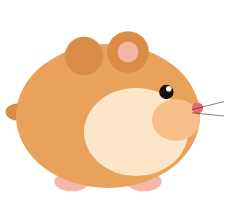
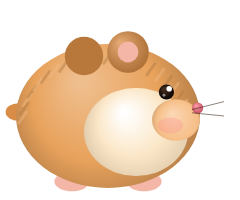
Realistic objects: shaded hamsters with fur, outline-free rocks/spikes/mounds with contact shadows, sunflower seeds, bald eagle and leathery bat; hex energy-bubble shield; refreshed character portraits

diff --git a/index.html b/index.html
@@ -1118,24 +1118,36 @@
     c.fillStyle = '#f4b6a6';
     if (o.air) { E(-r * 0.3, -r * 0.2, r * 0.2, r * 0.12); E(r * 0.35, -r * 0.2, r * 0.2, r * 0.12); }
     else { E(-r * 0.45 + (o.run || 0) * r * 0.23, -r * 0.08, r * 0.22, r * 0.12); E(r * 0.45 - (o.run || 0) * r * 0.23, -r * 0.08, r * 0.22, r * 0.12); }
-    c.fillStyle = sk.body; E(0, -r * 0.9, r * 1.15, r * 0.9);
+    const RG = (x0, y0, r1, stops) => { const g = c.createRadialGradient(x0, y0, r1 * 0.05, x0 + r1 * 0.25, y0 + r1 * 0.3, r1); stops.forEach(([k, col]) => g.addColorStop(k, col)); return g; };
+    c.fillStyle = RG(-r * 0.35, -r * 1.35, r * 1.5, [[0, mix(sk.body, '#ffffff', 0.3)], [0.5, sk.body], [1, mix(sk.body, '#000000', 0.35)]]);
+    E(0, -r * 0.9, r * 1.15, r * 0.9);
+    // fur: short strands along the back, lighter on top
+    c.save(); c.beginPath(); c.ellipse(0, -r * 0.9, r * 1.15, r * 0.9, 0, 0, Math.PI * 2); c.clip();
+    c.lineCap = 'round'; c.lineWidth = Math.max(0.8, r * 0.035);
+    for (let i = 0; i < 22; i++) { const a = Math.PI * (1.02 + i * 0.045), px = Math.cos(a) * r * 1.02, py = -r * 0.9 + Math.sin(a) * r * 0.8;
+      c.strokeStyle = i % 2 ? mix(sk.body, '#000000', 0.25) : mix(sk.body, '#ffffff', 0.25); c.globalAlpha = 0.45;
+      c.beginPath(); c.moveTo(px, py); c.lineTo(px - r * 0.1, py + r * 0.14); c.stroke(); }
+    c.globalAlpha = 1; c.restore();
     if (ch.extra === 'panda') { c.fillStyle = '#2b2522'; E(-r * 0.45, -r * 1.0, r * 0.55, r * 0.5); }
     if (ch.extra === 'dorsal') { c.strokeStyle = '#4c566a'; c.lineWidth = r * 0.14; c.lineCap = 'round'; c.beginPath(); c.ellipse(0, -r * 0.9, r * 0.98, r * 0.74, 0, Math.PI * 1.08, Math.PI * 1.62); c.stroke(); }
-    c.fillStyle = sk.belly; E(r * 0.35, -r * 0.7, r * 0.65, r * 0.55);
-    c.fillStyle = sk.ear; C(r * 0.25, -r * 1.7, r * 0.26); C(-r * 0.3, -r * 1.65, r * 0.24);
+    c.fillStyle = RG(r * 0.2, -r * 0.95, r * 0.75, [[0, '#ffffff'], [0.55, sk.belly], [1, mix(sk.belly, '#7a5a40', 0.25)]]); E(r * 0.35, -r * 0.7, r * 0.65, r * 0.55);
+    c.fillStyle = mix(sk.ear, '#000000', 0.15); C(-r * 0.3, -r * 1.65, r * 0.24);
+    c.fillStyle = RG(r * 0.15, -r * 1.82, r * 0.3, [[0, mix(sk.ear, '#ffffff', 0.25)], [1, mix(sk.ear, '#000000', 0.2)]]); C(r * 0.25, -r * 1.7, r * 0.26);
     c.fillStyle = sk.inner || '#f4b6a6'; C(r * 0.25, -r * 1.7, r * 0.13);
     if (ch.extra === 'blaze') { c.fillStyle = sk.belly; E(r * 0.5, -r * 1.48, r * 0.12, r * 0.22); }
     if (ch.extra === 'tuft') { c.strokeStyle = sk.ear; c.lineWidth = Math.max(1, r * 0.07); c.lineCap = 'round'; c.beginPath();
       for (const k of [-1, 0, 1]) { c.moveTo(r * (0.0 + k * 0.08), -r * 1.72); c.quadraticCurveTo(r * (0.02 + k * 0.12), -r * 2.0, r * (0.12 + k * 0.14), -r * 2.02); } c.stroke(); }
-    const ck = o.cheek || 1; c.fillStyle = sk.cheek; E(r * 0.85, -r * 0.85, r * 0.3 * ck, r * 0.26 * ck);
+    const ck = o.cheek || 1;
+    c.fillStyle = RG(r * 0.8, -r * 0.92, r * 0.34 * ck, [[0, mix(sk.cheek, '#ffffff', 0.35)], [0.7, sk.cheek], [1, mix(sk.cheek, '#000000', 0.12)]]); E(r * 0.85, -r * 0.85, r * 0.3 * ck, r * 0.26 * ck);
+    c.fillStyle = 'rgba(255,120,140,0.22)'; E(r * 0.78, -r * 0.78, r * 0.16, r * 0.1); // blush
     if (ch.extra === 'led') { c.fillStyle = '#eafff8';
       for (let i = 0; i < 3; i++) for (let j = 0; j < 3; j++) if ((i + j) % 2 === 0) C(-r * 0.75 + i * r * 0.18, -r * 1.25 + j * r * 0.18, r * 0.05); }
     if (ch.extra === 'panda') { c.fillStyle = '#2b2522'; E(r * 0.72, -r * 1.19, r * 0.21, r * 0.17); }
     c.fillStyle = '#1a0f08';
     if (o.eye === 'x') c.fillRect(r * 0.6, -r * 1.22, r * 0.25, r * 0.06);
     else if (o.eye === 'blink') c.fillRect(r * 0.62, -r * 1.2, r * 0.22, r * 0.05);
-    else { if (ch.extra === 'panda') { c.fillStyle = '#fff'; C(r * 0.72, -r * 1.2, r * 0.12); c.fillStyle = '#1a0f08'; } C(r * 0.73, -r * 1.2, r * 0.09); c.fillStyle = '#fff'; C(r * 0.76, -r * 1.24, r * 0.035); }
-    c.fillStyle = '#e46b7a'; C(r * 1.12, -r * 1.0, r * 0.07);
+    else { if (ch.extra === 'panda') { c.fillStyle = '#fff'; C(r * 0.72, -r * 1.2, r * 0.12); c.fillStyle = '#1a0f08'; } c.fillStyle = RG(r * 0.7, -r * 1.24, r * 0.1, [[0, '#4a3020'], [1, '#0a0503']]); C(r * 0.73, -r * 1.2, r * 0.095); c.fillStyle = '#fff'; C(r * 0.765, -r * 1.24, r * 0.035); c.fillStyle = 'rgba(255,255,255,0.5)'; C(r * 0.7, -r * 1.16, r * 0.018); }
+    c.fillStyle = RG(r * 1.1, -r * 1.03, r * 0.08, [[0, '#ff9aa8'], [1, '#c4505f']]); C(r * 1.12, -r * 1.0, r * 0.07);
     c.strokeStyle = '#2a1a0c88'; c.lineWidth = 1; c.beginPath();
     c.moveTo(r * 1.05, -r * 0.98); c.lineTo(r * 1.45, -r * 1.08); c.moveTo(r * 1.05, -r * 0.94); c.lineTo(r * 1.45, -r * 0.9); c.stroke();
   }
@@ -1154,96 +1166,171 @@
       eye: state === 'over' ? 'x' : ham.blink < 0 ? 'blink' : '' });
     ctx.restore();
 
-    if (shield) {
-      ctx.strokeStyle = `rgba(95,211,181,${0.55 + Math.sin(t * 8) * 0.25})`; ctx.lineWidth = 3;
-      ctx.beginPath(); ctx.arc(x, y - r * 0.95, r * 1.55, 0, Math.PI * 2); ctx.stroke();
+    if (shield) drawShield(x, y - r * 0.95, r * 1.6);
+  }
+  // shield: a Squeekchain-teal energy bubble with a turning hex lattice, a pulsing rim and orbiting sparks
+  let hexTile = null;
+  function hexPattern() {
+    if (hexTile) return hexTile;
+    const s = 9, w = s * 3, h = Math.round(s * Math.sqrt(3)); hexTile = document.createElement('canvas'); hexTile.width = w * 2; hexTile.height = h * 2;
+    const x = hexTile.getContext('2d'); x.strokeStyle = 'rgba(190,255,236,0.9)'; x.lineWidth = 1;
+    const hex = (cx, cy) => { x.beginPath(); for (let i = 0; i <= 6; i++) { const a = Math.PI / 3 * i; i ? x.lineTo(cx + s * Math.cos(a), cy + s * Math.sin(a)) : x.moveTo(cx + s, cy); } x.stroke(); };
+    for (let i = -1; i <= 2; i++) for (let j = -1; j <= 2; j++) { hex(i * w, j * h); hex(i * w + w / 2, j * h + h / 2); }
+    return hexTile;
+  }
+  function drawShield(cx, cy, R) {
+    const pulse = 0.5 + 0.5 * Math.sin(t * 5);
+    ctx.save();
+    const body = ctx.createRadialGradient(cx - R * 0.3, cy - R * 0.35, R * 0.1, cx, cy, R);
+    body.addColorStop(0, 'rgba(160,255,230,0.05)'); body.addColorStop(0.7, 'rgba(95,211,181,0.12)'); body.addColorStop(1, `rgba(95,211,181,${0.32 + 0.12 * pulse})`);
+    ctx.fillStyle = body; circle(cx, cy, R);
+    ctx.beginPath(); ctx.arc(cx, cy, R, 0, Math.PI * 2); ctx.clip();
+    ctx.globalAlpha = 0.16 + 0.08 * pulse; ctx.translate(cx, cy); ctx.rotate(t * 0.35);
+    ctx.fillStyle = ctx.createPattern(hexPattern(), 'repeat'); ctx.fillRect(-R, -R, R * 2, R * 2);
+    ctx.restore();
+    ctx.save();
+    ctx.lineWidth = 2.2; ctx.strokeStyle = `rgba(150,255,225,${0.55 + 0.35 * pulse})`; ctx.shadowColor = '#5fd3b5'; ctx.shadowBlur = 10;
+    ctx.beginPath(); ctx.arc(cx, cy, R, 0, Math.PI * 2); ctx.stroke(); ctx.shadowBlur = 0;
+    ctx.strokeStyle = 'rgba(255,255,255,0.55)'; ctx.lineWidth = 2; ctx.beginPath(); ctx.arc(cx, cy, R * 0.86, Math.PI * 1.1, Math.PI * 1.45); ctx.stroke(); // glint
+    for (let i = 0; i < 3; i++) { // orbiting sparks
+      const a = t * 2.4 + i * Math.PI * 2 / 3, sx = cx + Math.cos(a) * R, sy = cy + Math.sin(a) * R * 0.95;
+      const g = ctx.createRadialGradient(sx, sy, 0, sx, sy, 6); g.addColorStop(0, 'rgba(255,255,255,0.95)'); g.addColorStop(1, 'rgba(95,211,181,0)');
+      ctx.fillStyle = g; circle(sx, sy, 6);
     }
+    ctx.restore();
   }
 
-  // hazards use colours that never appear in the burrow (light grey stone, clay)
-  // and a dark outline so they pop against the brown ground and hills
+  // ---------- hazards, flyers and pickups: shaded, outline-free, lit from the upper left ----------
   const OUT = '#120a05';
+  const lit = (c, k) => mix(c, '#ffffff', k), dim = (c, k) => mix(c, '#000000', k);
+  function contactShadow(cx, w) { // soft shadow where an object meets the ground
+    const g = ctx.createRadialGradient(cx, GROUND, 0, cx, GROUND, w);
+    g.addColorStop(0, 'rgba(0,0,0,0.38)'); g.addColorStop(1, 'rgba(0,0,0,0)');
+    ctx.fillStyle = g; ctx.save(); ctx.translate(cx, GROUND); ctx.scale(1, 0.22); ctx.translate(-cx, -GROUND); circle(cx, GROUND, w); ctx.restore();
+  }
+  function seeded(seed) { let a = Math.floor(seed * 1e9) | 0; return () => { a = a + 0x6D2B79F5 | 0; let q = Math.imul(a ^ a >>> 15, 1 | a); q = q + Math.imul(q ^ q >>> 7, 61 | q) ^ q; return ((q ^ q >>> 14) >>> 0) / 4294967296; }; }
+  function drawRock(cx, cy, rx, ry, seed, base) {
+    const R = seeded(seed);
+    // lumpy outline: an ellipse with a little noise on the radius
+    ctx.beginPath();
+    const n = 14, ph = R() * 6;
+    for (let i = 0; i <= n; i++) {
+      const a = Math.PI + (i / n) * Math.PI, k = 1 + 0.07 * Math.sin(a * 3 + ph) + 0.04 * Math.sin(a * 7 + ph * 2);
+      const x = cx + Math.cos(a) * rx * k, y = cy + Math.sin(a) * ry * k;
+      i ? ctx.lineTo(x, y) : ctx.moveTo(x, y);
+    }
+    ctx.quadraticCurveTo(cx + rx * 0.6, cy + ry * 0.45, cx, cy + ry * 0.5); ctx.quadraticCurveTo(cx - rx * 0.6, cy + ry * 0.45, cx - rx, cy);
+    const g = ctx.createRadialGradient(cx - rx * 0.35, cy - ry * 0.55, rx * 0.05, cx, cy, Math.max(rx, ry) * 1.15);
+    g.addColorStop(0, lit(base, 0.45)); g.addColorStop(0.45, base); g.addColorStop(1, dim(base, 0.55));
+    ctx.fillStyle = g; ctx.fill();
+    ctx.strokeStyle = dim(base, 0.6); ctx.globalAlpha = 0.55; ctx.lineWidth = 1.2; ctx.stroke(); ctx.globalAlpha = 1;
+    ctx.save(); ctx.clip();
+    for (let i = 0; i < 7; i++) { ctx.fillStyle = R() < 0.5 ? 'rgba(0,0,0,0.18)' : 'rgba(255,255,255,0.2)'; circle(cx + (R() - 0.5) * rx * 1.6, cy + (R() - 0.7) * ry * 1.2, (0.6 + R() * 1.4) * S); }
+    ctx.strokeStyle = 'rgba(0,0,0,0.28)'; ctx.lineWidth = 1; ctx.beginPath(); // a hairline crack
+    let x = cx + (R() - 0.5) * rx, y = cy - ry * 0.9; ctx.moveTo(x, y);
+    for (let i = 0; i < 4; i++) { x += (R() - 0.5) * rx * 0.4; y += ry * 0.28; ctx.lineTo(x, y); }
+    ctx.stroke(); ctx.restore();
+    const sp = ctx.createRadialGradient(cx - rx * 0.4, cy - ry * 0.6, 0, cx - rx * 0.4, cy - ry * 0.6, rx * 0.35);
+    sp.addColorStop(0, 'rgba(255,255,255,0.35)'); sp.addColorStop(1, 'rgba(255,255,255,0)'); ctx.fillStyle = sp; circle(cx - rx * 0.4, cy - ry * 0.6, rx * 0.35);
+  }
   function drawFlyer(o) {
     const cx = o.x + o.w / 2, cy = o.y + (o.fall ? 0 : Math.sin(t * 3 + o.phase) * 5 * S), z = S;
-    const flap = Math.sin(t * (o.sp === 'eagle' ? 9 : 16) + o.phase);
+    const flap = Math.sin(t * (o.sp === 'eagle' ? 8 : 15) + o.phase);
     if (o.x > W - 20 && !o.fall) { // incoming warning at the screen edge
-      ctx.fillStyle = '#ff5a3c'; ctx.globalAlpha = 0.6 + 0.4 * Math.sin(t * 14);
-      circle(W - 22 * z, cy, 14 * z);
+      const g = ctx.createRadialGradient(W - 22 * z, cy, 0, W - 22 * z, cy, 18 * z);
+      g.addColorStop(0, '#ff7a55'); g.addColorStop(1, '#c2301b');
+      ctx.globalAlpha = 0.65 + 0.35 * Math.sin(t * 14); ctx.fillStyle = g; circle(W - 22 * z, cy, 15 * z);
       ctx.globalAlpha = 1; ctx.fillStyle = '#fff'; ctx.font = `700 ${Math.round(18 * z)}px Fredoka, sans-serif`;
       ctx.textAlign = 'center'; ctx.textBaseline = 'middle'; ctx.fillText('!', W - 22 * z, cy + 1);
       return;
     }
-    ctx.save(); ctx.translate(cx, cy); if (o.fall) { ctx.rotate(o.rot); ctx.scale(1, -1); ctx.globalAlpha = 0.85; } ctx.lineJoin = 'round'; ctx.strokeStyle = OUT; ctx.lineWidth = 2.5;
+    ctx.save(); ctx.translate(cx, cy); if (o.fall) { ctx.rotate(o.rot); ctx.scale(1, -1); ctx.globalAlpha = 0.85; }
     if (o.sp === 'eagle') {
-      // wings (up/down flap), body, white head, hooked yellow beak — faces left toward the hamster
-      // wide feathered wings: far wing behind the body, near wing on top, beating up and down
-      const span = (16 + 16 * Math.abs(flap)) * z * (flap >= 0 ? -1 : 1);
-      const wing = (dx, k, col) => {
-        ctx.fillStyle = col; ctx.beginPath(); ctx.moveTo(dx - 10 * z, -2 * z);
-        ctx.lineTo(dx - 7 * z, span * k); ctx.lineTo(dx - 1 * z, span * k * 0.82); ctx.lineTo(dx + 4 * z, span * k);
-        ctx.lineTo(dx + 9 * z, span * k * 0.82); ctx.lineTo(dx + 14 * z, span * k * 0.92); ctx.lineTo(dx + 14 * z, -2 * z);
-        ctx.closePath(); ctx.fill(); ctx.stroke();
+      // bald eagle, facing left: broad brown wings with fingered primaries, white head and tail, hooked yellow bill
+      const wing = (k, base, back) => {
+        const up = (flap * 20 + 9) * z * k; ctx.save(); if (back) ctx.translate(8 * z, -2 * z);
+        const g = ctx.createLinearGradient(0, 0, 0, -up || 1); g.addColorStop(0, dim(base, 0.1)); g.addColorStop(1, lit(base, 0.12));
+        ctx.fillStyle = g; ctx.beginPath(); ctx.moveTo(-10 * z, -1 * z);
+        ctx.bezierCurveTo(-8 * z, -up * 0.5, -4 * z, -up * 0.9, 2 * z, -up);
+        for (let f = 0; f < 5; f++) { const fx = 2 * z + f * 3.6 * z; ctx.lineTo(fx + 1.8 * z, -up * (1.08 - f * 0.05)); ctx.lineTo(fx + 3.6 * z, -up * (0.96 - f * 0.05)); }
+        ctx.bezierCurveTo(20 * z, -up * 0.5, 16 * z, -2 * z, 14 * z, 0); ctx.closePath(); ctx.fill();
+        ctx.strokeStyle = 'rgba(0,0,0,0.25)'; ctx.lineWidth = 1; ctx.beginPath();
+        for (let f = 0; f < 4; f++) { const fx = 4 * z + f * 3.6 * z; ctx.moveTo(fx, -up * 0.35); ctx.lineTo(fx + 1.5 * z, -up * 0.95); } ctx.stroke(); ctx.restore();
       };
-      wing(8 * z, 0.8, '#3f2410');
-      ctx.fillStyle = '#7a4520'; ctx.beginPath(); ctx.ellipse(4 * z, 2 * z, 20 * z, 10 * z, 0, 0, Math.PI * 2); ctx.fill(); ctx.stroke();
-      ctx.beginPath(); ctx.moveTo(22 * z, 0); ctx.lineTo(34 * z, -6 * z); ctx.lineTo(34 * z, 8 * z); ctx.closePath(); ctx.fill(); ctx.stroke(); // tail
-      wing(0, 1, '#5e3416');
-      ctx.fillStyle = '#f7f3ea'; ctx.beginPath(); ctx.arc(-16 * z, -3 * z, 9 * z, 0, Math.PI * 2); ctx.fill(); ctx.stroke();
-      ctx.fillStyle = '#ffc12e'; ctx.beginPath(); ctx.moveTo(-24 * z, -5 * z); ctx.lineTo(-33 * z, -1 * z); ctx.lineTo(-24 * z, 2 * z); ctx.closePath(); ctx.fill(); ctx.stroke();
-      ctx.fillStyle = OUT; circle(-18 * z, -5 * z, 1.8 * z);
+      wing(0.8, '#3a2312', true);
+      const tg = ctx.createLinearGradient(20 * z, 0, 36 * z, 0); tg.addColorStop(0, '#e9e4da'); tg.addColorStop(1, '#ffffff');
+      ctx.fillStyle = tg; ctx.beginPath(); ctx.moveTo(18 * z, -3 * z); ctx.lineTo(35 * z, -7 * z); ctx.lineTo(36 * z, 2 * z); ctx.lineTo(34 * z, 8 * z); ctx.lineTo(18 * z, 5 * z); ctx.closePath(); ctx.fill();
+      const bg = ctx.createRadialGradient(0, -5 * z, 2 * z, 4 * z, 2 * z, 22 * z); bg.addColorStop(0, '#7b4a25'); bg.addColorStop(1, '#2e1a0c');
+      ctx.fillStyle = bg; ctx.beginPath(); ctx.ellipse(4 * z, 2 * z, 20 * z, 9.5 * z, -0.05, 0, Math.PI * 2); ctx.fill();
+      const hg = ctx.createRadialGradient(-18 * z, -7 * z, 1 * z, -15 * z, -3 * z, 11 * z); hg.addColorStop(0, '#ffffff'); hg.addColorStop(1, '#d9d3c7');
+      ctx.fillStyle = hg; ctx.beginPath(); ctx.ellipse(-15 * z, -3 * z, 9.5 * z, 8 * z, -0.2, 0, Math.PI * 2); ctx.fill();
+      ctx.beginPath(); ctx.moveTo(-8 * z, -8 * z); ctx.quadraticCurveTo(-2 * z, 0, -6 * z, 5 * z); ctx.lineTo(-10 * z, 2 * z); ctx.fill(); // white neck ruff
+      const kg = ctx.createLinearGradient(-32 * z, 0, -22 * z, 0); kg.addColorStop(0, '#e89a10'); kg.addColorStop(1, '#ffd23f');
+      ctx.fillStyle = kg; ctx.beginPath(); ctx.moveTo(-22 * z, -6 * z); ctx.quadraticCurveTo(-31 * z, -6 * z, -33 * z, 0); ctx.quadraticCurveTo(-29 * z, -2 * z, -27 * z, 1 * z); ctx.lineTo(-22 * z, 1 * z); ctx.closePath(); ctx.fill();
+      ctx.fillStyle = '#2a1a05'; circle(-18 * z, -5.5 * z, 1.9 * z); ctx.fillStyle = '#fff'; circle(-18.6 * z, -6.2 * z, 0.6 * z);
+      ctx.strokeStyle = 'rgba(80,60,30,0.6)'; ctx.lineWidth = 1.2; ctx.beginPath(); ctx.moveTo(-21 * z, -7.5 * z); ctx.lineTo(-15 * z, -8.5 * z); ctx.stroke(); // brow
+      ctx.fillStyle = '#e8b20f'; ctx.fillRect(2 * z, 9 * z, 2.5 * z, 4 * z); ctx.fillRect(7 * z, 9 * z, 2.5 * z, 4 * z); // talons tucked
+      wing(1, '#4a2c15', false);
     } else {
-      // bat: scalloped wings, round body, ears, red eyes
-      ctx.fillStyle = '#3b2a4f';
-      for (const sgn of [-1, 1]) {
-        ctx.beginPath(); ctx.moveTo(0, -2 * z);
-        ctx.lineTo(sgn * 24 * z, -12 * z * flap - 8 * z); ctx.lineTo(sgn * 26 * z, 6 * z);
-        ctx.quadraticCurveTo(sgn * 18 * z, 0, sgn * 13 * z, 8 * z); ctx.quadraticCurveTo(sgn * 8 * z, 2 * z, 0, 8 * z);
-        ctx.closePath(); ctx.fill(); ctx.stroke();
+      // bat: leathery membranes with finger bones, furry body, big ears
+      for (const sg of [-1, 1]) {
+        const tipY = -14 * z * flap - 6 * z;
+        const g = ctx.createLinearGradient(0, -10 * z, sg * 28 * z, 8 * z); g.addColorStop(0, '#3d2c4a'); g.addColorStop(1, '#1d1424');
+        ctx.fillStyle = g; ctx.beginPath(); ctx.moveTo(0, -3 * z);
+        ctx.quadraticCurveTo(sg * 12 * z, tipY - 4 * z, sg * 27 * z, tipY);
+        ctx.quadraticCurveTo(sg * 24 * z, 2 * z, sg * 26 * z, 7 * z);
+        ctx.quadraticCurveTo(sg * 20 * z, 2 * z, sg * 16 * z, 8 * z);
+        ctx.quadraticCurveTo(sg * 12 * z, 3 * z, sg * 8 * z, 8 * z);
+        ctx.quadraticCurveTo(sg * 5 * z, 4 * z, 0, 7 * z); ctx.closePath(); ctx.fill();
+        ctx.strokeStyle = 'rgba(150,120,170,0.35)'; ctx.lineWidth = 1; ctx.beginPath();
+        for (const [fx, fy] of [[27, tipY / z], [26, 7], [16, 8], [8, 8]]) { ctx.moveTo(sg * 3 * z, -2 * z); ctx.lineTo(sg * fx * z, fy * z); } ctx.stroke();
       }
-      ctx.fillStyle = '#4a3663'; ctx.beginPath(); ctx.ellipse(0, 2 * z, 9 * z, 11 * z, 0, 0, Math.PI * 2); ctx.fill(); ctx.stroke();
-      ctx.beginPath(); ctx.moveTo(-7 * z, -6 * z); ctx.lineTo(-5 * z, -15 * z); ctx.lineTo(-1 * z, -8 * z); ctx.moveTo(7 * z, -6 * z); ctx.lineTo(5 * z, -15 * z); ctx.lineTo(1 * z, -8 * z); ctx.fill(); ctx.stroke();
-      ctx.fillStyle = '#ff4d4d'; circle(-3.5 * z, -1 * z, 2 * z); circle(3.5 * z, -1 * z, 2 * z);
+      const fg = ctx.createRadialGradient(-2 * z, -3 * z, 1 * z, 0, 2 * z, 11 * z); fg.addColorStop(0, '#6b5277'); fg.addColorStop(1, '#2a1d33');
+      ctx.fillStyle = fg; ctx.beginPath(); ctx.ellipse(0, 2 * z, 8.5 * z, 10.5 * z, 0, 0, Math.PI * 2); ctx.fill();
+      ctx.beginPath(); ctx.moveTo(-6.5 * z, -5 * z); ctx.lineTo(-5 * z, -15 * z); ctx.lineTo(-1.5 * z, -7 * z); ctx.moveTo(6.5 * z, -5 * z); ctx.lineTo(5 * z, -15 * z); ctx.lineTo(1.5 * z, -7 * z); ctx.fill();
+      ctx.fillStyle = '#ff3b3b'; ctx.shadowColor = '#ff3b3b'; ctx.shadowBlur = 6; circle(-3.2 * z, -1 * z, 1.7 * z); circle(3.2 * z, -1 * z, 1.7 * z); ctx.shadowBlur = 0;
+      ctx.fillStyle = '#f2e9f5'; ctx.fillRect(-1.6 * z, 3 * z, 0.9 * z, 1.8 * z); ctx.fillRect(0.7 * z, 3 * z, 0.9 * z, 1.8 * z); // fangs
     }
     ctx.restore();
   }
   function drawObstacles() {
-    ctx.lineJoin = 'round';
     for (const o of obstacles) {
       if (o.kind === 'flyer') { drawFlyer(o); continue; }
       if (o.kind === 'pebble') {
-        ctx.fillStyle = '#9d9892'; ctx.strokeStyle = OUT; ctx.lineWidth = 2.5;
-        ctx.beginPath(); ctx.ellipse(o.x + o.w / 2, GROUND - o.h / 2, o.w / 2, o.h / 2, 0, 0, Math.PI * 2); ctx.fill(); ctx.stroke();
-        ctx.fillStyle = '#76716b'; ellipse(o.x + o.w * 0.6, GROUND - o.h * 0.3, o.w * 0.3, o.h * 0.22);
-        ctx.fillStyle = '#d2cdc6'; ellipse(o.x + o.w * 0.36, GROUND - o.h * 0.68, o.w * 0.15, o.h * 0.11);
+        contactShadow(o.x + o.w / 2, o.w * 0.6);
+        drawRock(o.x + o.w / 2, GROUND - o.h * 0.48, o.w / 2, o.h * 0.52, o.seed, '#8f8a83');
       } else if (o.kind === 'root') {
-        // sharp rock spike: light grey stone, jagged edges, dark outline
-        const L = o.x - 6, R = o.x + o.w + 6, tipX = o.x + o.w * 0.45, tipY = GROUND - o.h;
-        ctx.beginPath();
-        ctx.moveTo(L, GROUND);
-        ctx.lineTo(o.x + o.w * 0.05, GROUND - o.h * 0.45);
-        ctx.lineTo(o.x + o.w * 0.2, GROUND - o.h * 0.5);
-        ctx.lineTo(tipX, tipY);
-        ctx.lineTo(o.x + o.w * 0.75, GROUND - o.h * 0.55);
-        ctx.lineTo(o.x + o.w * 0.9, GROUND - o.h * 0.5);
-        ctx.lineTo(R, GROUND); ctx.closePath();
-        ctx.fillStyle = '#c9c5bf'; ctx.fill();
-        ctx.strokeStyle = OUT; ctx.lineWidth = 3; ctx.stroke();
-        // shaded right face
-        ctx.beginPath(); ctx.moveTo(tipX, tipY + 4); ctx.lineTo(o.x + o.w * 0.75, GROUND - o.h * 0.55);
-        ctx.lineTo(o.x + o.w * 0.9, GROUND - o.h * 0.5); ctx.lineTo(R - 2, GROUND - 2); ctx.lineTo(tipX + 2, GROUND - 2); ctx.closePath();
-        ctx.fillStyle = '#8f8a84'; ctx.fill();
-        // bright edge highlight on the left
-        ctx.strokeStyle = '#f2efe9'; ctx.lineWidth = 2;
-        ctx.beginPath(); ctx.moveTo(o.x + o.w * 0.22, GROUND - o.h * 0.48); ctx.lineTo(tipX - 1, tipY + 6); ctx.stroke();
+        // jagged rock spike: two lit/shaded faces, strata lines, chipped edges
+        contactShadow(o.x + o.w / 2, o.w * 0.9);
+        const L = o.x - 6, Rr = o.x + o.w + 6, tipX = o.x + o.w * 0.45, tipY = GROUND - o.h;
+        const pts = [[L, GROUND], [o.x + o.w * 0.05, GROUND - o.h * 0.45], [o.x + o.w * 0.2, GROUND - o.h * 0.5], [tipX, tipY], [o.x + o.w * 0.75, GROUND - o.h * 0.55], [o.x + o.w * 0.9, GROUND - o.h * 0.5], [Rr, GROUND]];
+        ctx.beginPath(); pts.forEach(([x, y], i) => i ? ctx.lineTo(x, y) : ctx.moveTo(x, y)); ctx.closePath();
+        const g = ctx.createLinearGradient(L, 0, Rr, 0); g.addColorStop(0, '#d9d4cc'); g.addColorStop(0.45, '#aaa49b'); g.addColorStop(1, '#6f6a63');
+        ctx.fillStyle = g; ctx.fill();
+        ctx.save(); ctx.clip();
+        ctx.beginPath(); ctx.moveTo(tipX, tipY); ctx.lineTo(o.x + o.w * 0.75, GROUND - o.h * 0.55); ctx.lineTo(o.x + o.w * 0.9, GROUND - o.h * 0.5); ctx.lineTo(Rr, GROUND); ctx.lineTo(tipX + 4, GROUND); ctx.closePath();
+        ctx.fillStyle = 'rgba(30,25,20,0.32)'; ctx.fill(); // shaded face
+        const vg = ctx.createLinearGradient(0, tipY, 0, GROUND); vg.addColorStop(0, 'rgba(255,255,255,0.12)'); vg.addColorStop(1, 'rgba(0,0,0,0.28)');
+        ctx.fillStyle = vg; ctx.fillRect(L, tipY, Rr - L, o.h);
+        const R = seeded(o.seed); ctx.strokeStyle = 'rgba(0,0,0,0.2)'; ctx.lineWidth = 1;
+        for (let i = 1; i < 5; i++) { const y = GROUND - o.h * i / 5 + (R() - 0.5) * 4; ctx.beginPath(); ctx.moveTo(L, y); ctx.lineTo(Rr, y - 3 + R() * 6); ctx.stroke(); }
+        ctx.restore();
+        ctx.strokeStyle = 'rgba(255,255,255,0.55)'; ctx.lineWidth = 1.4; ctx.beginPath(); ctx.moveTo(o.x + o.w * 0.2, GROUND - o.h * 0.5); ctx.lineTo(tipX, tipY + 1); ctx.stroke();
+        ctx.strokeStyle = 'rgba(40,35,30,0.55)'; ctx.lineWidth = 1; ctx.beginPath(); pts.forEach(([x, y], i) => i ? ctx.lineTo(x, y) : ctx.moveTo(x, y)); ctx.stroke();
       } else {
-        // clay mound: orange clay with outline and stripes
-        ctx.beginPath(); ctx.ellipse(o.x + o.w / 2, GROUND, o.w / 2, o.h, 0, Math.PI, 0); ctx.closePath();
-        ctx.fillStyle = '#c4773a'; ctx.fill();
-        ctx.strokeStyle = OUT; ctx.lineWidth = 2.5; ctx.stroke();
-        ctx.strokeStyle = '#e39a57'; ctx.lineWidth = 2;
-        ctx.beginPath(); ctx.ellipse(o.x + o.w / 2, GROUND, o.w * 0.34, o.h * 0.66, 0, Math.PI * 1.1, Math.PI * 1.75); ctx.stroke();
-        ctx.fillStyle = '#8e4f22';
-        for (let k = 0; k < 4; k++) ellipse(o.x + o.w * (0.25 + k * 0.17), GROUND - o.h * (0.35 + (k % 2) * 0.2), 3 * S, 2 * S);
+        // dirt mound: domed soil with clods, pebbles and a few grass blades on top
+        contactShadow(o.x + o.w / 2, o.w * 0.6);
+        const cx = o.x + o.w / 2, R = seeded(o.seed);
+        ctx.beginPath(); ctx.ellipse(cx, GROUND, o.w / 2, o.h, 0, Math.PI, 0); ctx.closePath();
+        const g = ctx.createRadialGradient(cx - o.w * 0.18, GROUND - o.h * 0.85, 2, cx, GROUND, o.w * 0.6);
+        g.addColorStop(0, '#b77a46'); g.addColorStop(0.55, '#8a5530'); g.addColorStop(1, '#4c2c17');
+        ctx.fillStyle = g; ctx.fill();
+        ctx.save(); ctx.clip();
+        for (let i = 0; i < 16; i++) { const px = o.x + R() * o.w, py = GROUND - R() * o.h, r = (1 + R() * 2.6) * S;
+          ctx.fillStyle = R() < 0.5 ? 'rgba(40,20,8,0.35)' : 'rgba(220,170,120,0.35)'; ctx.beginPath(); ctx.ellipse(px, py, r * 1.3, r, 0, 0, Math.PI * 2); ctx.fill(); }
+        ctx.restore();
+        for (let i = 0; i < 7; i++) { const a = Math.PI * (1.15 + R() * 0.7), bx = cx + Math.cos(a) * o.w / 2 * 0.9, by = GROUND + Math.sin(a) * o.h * 0.95, hgt = (5 + R() * 7) * S;
+          ctx.strokeStyle = R() < 0.5 ? '#6f9a3a' : '#9cc45a'; ctx.lineWidth = 1.4; ctx.beginPath(); ctx.moveTo(bx, by); ctx.quadraticCurveTo(bx + 2, by - hgt * 0.6, bx + (R() - 0.3) * 5, by - hgt); ctx.stroke(); }
       }
     }
   }
@@ -1259,21 +1346,34 @@
     ctx.fillStyle = '#103a30'; ctx.font = `700 ${Math.round(11 * S)}px Fredoka, sans-serif`; ctx.textAlign = 'left'; ctx.textBaseline = 'middle';
     ctx.fillText('STAKE', x + 7 * S, top + 15 * S);
   }
+  // sunflower seed: a teardrop hull with grey stripes and a glossy highlight; golden seeds glow and sparkle
+  function seedShape(s) {
+    ctx.beginPath(); ctx.moveTo(0, -12 * s);
+    ctx.bezierCurveTo(7.5 * s, -8 * s, 7.5 * s, 7 * s, 0, 11 * s); ctx.bezierCurveTo(-7.5 * s, 7 * s, -7.5 * s, -8 * s, 0, -12 * s); ctx.closePath();
+  }
   function drawPickups() {
     for (const p of pickups) {
-      const bob = Math.sin(t * 6 + p.x * 0.05) * 3;
-      ctx.save(); ctx.translate(p.x, p.y + bob); ctx.rotate(0.5);
-      if (p.gold) {
-        ctx.fillStyle = '#ffd54a33'; circle(0, 0, 18 * S);
-        ctx.fillStyle = '#ffd54a'; ellipse(0, 0, 7 * S, 12 * S);
-        ctx.strokeStyle = '#fff6c8'; ctx.lineWidth = 1.5;
-      } else {
-        ctx.fillStyle = '#ffe08a40'; circle(0, 0, 15 * S);
-        ctx.fillStyle = '#f4ecd6'; ellipse(0, 0, 7.6 * S, 12.6 * S);
-        ctx.fillStyle = '#3a3633'; ellipse(0, 0, 6 * S, 11 * S);
-        ctx.strokeStyle = '#f4ecd6'; ctx.lineWidth = 2;
+      const bob = Math.sin(t * 6 + p.x * 0.05) * 3, s = S * 1.2;
+      ctx.save(); ctx.translate(p.x, p.y + bob);
+      const halo = ctx.createRadialGradient(0, 0, 2 * s, 0, 0, 20 * s);
+      halo.addColorStop(0, p.gold ? 'rgba(255,214,90,0.55)' : 'rgba(255,236,170,0.32)'); halo.addColorStop(1, 'rgba(255,236,170,0)');
+      ctx.fillStyle = halo; circle(0, 0, 20 * s);
+      ctx.rotate(0.5);
+      seedShape(s);
+      const g = ctx.createLinearGradient(-7 * s, 0, 7 * s, 0);
+      if (p.gold) { g.addColorStop(0, '#fff2a8'); g.addColorStop(0.45, '#ffcc33'); g.addColorStop(1, '#b8860b'); }
+      else { g.addColorStop(0, '#5a5550'); g.addColorStop(0.5, '#2a2724'); g.addColorStop(1, '#141210'); }
+      ctx.fillStyle = g; ctx.fill();
+      ctx.save(); seedShape(s); ctx.clip();
+      ctx.strokeStyle = p.gold ? 'rgba(255,250,220,0.75)' : 'rgba(225,220,205,0.85)'; ctx.lineWidth = 1.3 * s;
+      for (const dx of [-3.4, 0, 3.4]) { ctx.beginPath(); ctx.moveTo(dx * s * 0.6, -11 * s); ctx.quadraticCurveTo(dx * s, 0, dx * s * 0.6, 10 * s); ctx.stroke(); }
+      ctx.restore();
+      ctx.fillStyle = 'rgba(255,255,255,0.45)'; ctx.beginPath(); ctx.ellipse(-2.6 * s, -4 * s, 1.4 * s, 4 * s, 0.15, 0, Math.PI * 2); ctx.fill();
+      if (p.gold) { // twinkle
+        const k = 0.5 + 0.5 * Math.sin(t * 7 + p.x * 0.1); ctx.rotate(-0.5); ctx.fillStyle = `rgba(255,255,255,${0.5 + 0.5 * k})`;
+        ctx.beginPath(); const L = (5 + 4 * k) * s; ctx.moveTo(9 * s, -12 * s - L); ctx.lineTo(10 * s, -12 * s); ctx.lineTo(9 * s, -12 * s + L); ctx.lineTo(8 * s, -12 * s); ctx.closePath(); ctx.fill();
+        ctx.beginPath(); ctx.moveTo(9 * s - L, -12 * s); ctx.lineTo(9 * s, -13 * s); ctx.lineTo(9 * s + L, -12 * s); ctx.lineTo(9 * s, -11 * s); ctx.closePath(); ctx.fill();
       }
-      ctx.beginPath(); ctx.moveTo(0, -9 * S); ctx.lineTo(0, 9 * S); ctx.stroke();
       ctx.restore();
     }
   }
